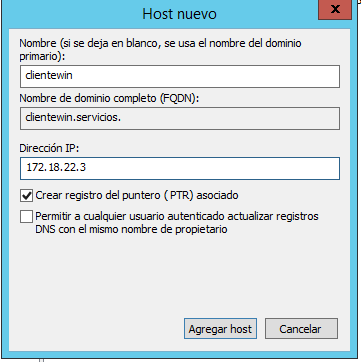
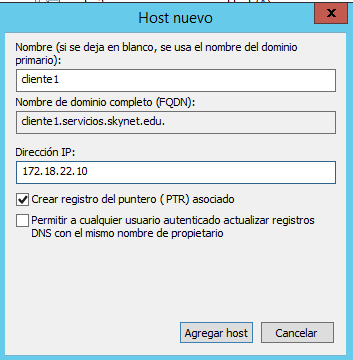
configuración de la subzona

Changed region(s): [[0.0, 0.0, 1.0, 1.0]]

diff --git a/trim1/u3/README.md b/trim1/u3/README.md
@@ -1,10 +1,28 @@
 # DNS en Windows Server 2012
 
+- [Instalación y Configuración DNS](#1)
+
+- [Creación de Zona Búsqueda Directa](#2)
+
+- [Creación de Zona Búsqueda Inversa](#3)
+
+- [Configuración de Reenviadores](#4)
+
+- [Comprobar el funcionamiento del DNS caché](#5)
+
+- [Configuración DNS Maestro](#6)
+
+- [Crear una Subzona demoninada servicios](#7)
+
+- [Comprobar desde consola del cliente que resuelvan](#8)
+
+- [Realizar operaciones con type en nslookup](#9)
 
 
-![img](img/000.png)
 
-## Realizar la instalación y configuración de un servidor DNS en una máquina con Windows Server 2012. Se piden las siguientes acciones de configuración y prueba del funcionamiento del servicio:
+![img](img/000.jpg)
+
+## Realizar la instalación y configuración de un servidor DNS en una máquina con Windows Server 2012. Se piden las siguientes acciones de configuración y prueba del funcionamiento del servicio:<a name="1"></a>
 
 Tenemos que abrir la ventana de `Administrador del servidor -> Administrar -> Agregar Roles`.
 
@@ -37,7 +55,7 @@ Comprobamos que tenemos el servicio instalado en el siguiente ruta `Administrado
 
 
 
-## Creación de una nueva Zona Búsqueda Directa
+## Creación de una nueva Zona Búsqueda Directa <a name="2"></a>
 
 Tenemos que entrar en `Administador del servidor -> Herramientas -> DNS`
 
@@ -60,7 +78,7 @@ Tenemos que entrar en `Administador del servidor -> Herramientas -> DNS`
 
 - Por lo tanto ya tenemos configurado una nueva zona Directa.
 
-## Crear una zona de búsqueda inversa para tu subred.
+## Crear una zona de búsqueda inversa para tu subred.<a name="3"></a>
 
 En la carpeta de `Zonas de Búsqueda inversa` con el botón secundario del ratón creamos una nueva zona inversa.
 
@@ -79,7 +97,7 @@ En la carpeta de `Zonas de Búsqueda inversa` con el botón secundario del rató
 - Ya tenemos configurado la nueva `Zona de Búsqueda inversa`.
 
 
-## Configurar reenviadores de DNS con fry o puerta de enlace actual y DNS público (p.e.: 195.235.113.3 / 80.58.61.250 / 8.8.8.8).
+## Configurar reenviadores de DNS con fry o puerta de enlace actual y DNS público (p.e.: 195.235.113.3 / 80.58.61.250 / 8.8.8.8).<a name="4"></a>
 
 Seleccionamos nuestro servidor `serverob2 -> Propiedades -> reenviadores`
 
@@ -99,7 +117,7 @@ Seleccionamos nuestro servidor `serverob2 -> Propiedades -> reenviadores`
 
 ![img](img/008.png)
 
-### Configurar cliente para que su servidor DNS sea el servidor W2012. Comprobar el funcionamiento como caché DNS de ambas máquinas al acceder a sitios de Internet.
+### Configurar cliente para que su servidor DNS sea el servidor W2012. Comprobar el funcionamiento como caché DNS de ambas máquinas al acceder a sitios de Internet.<a name="5"></a>
 
 Configuramos la tarjeta de red con la IP del DNS del Servidor Windows Server 2012.
 
@@ -110,7 +128,7 @@ Configuramos la tarjeta de red con la IP del DNS del Servidor Windows Server 201
 
 ![img](img/028.png)
 
-## Configuraremos el servidor como DNS Maestro, además de Caché.
+## Configuraremos el servidor como DNS Maestro, además de Caché.<a name="6"></a>
 
 La configuración de un Servidor DNS Maestro solo con tener registros en el propio servidor de DNS, como por ejemplo, `cname, mx, a`. Ya hemos creado una zona directa y vamos a crear un alias para el servidor, para impresora y un email.
 
@@ -170,7 +188,7 @@ Registros de los hosts con la IP
 ![img](img/049.png)
 
 
-## Crear una subzona denominada servicios (dominio nuevo)
+## Crear una subzona denominada servicios (dominio nuevo)<a name="7"></a>
 
 Vamos a crear una nueva zona en la zona directa. Solo debemos seguir los mismos pasos.
 
@@ -180,6 +198,16 @@ Vamos a crear una nueva zona en la zona directa. Solo debemos seguir los mismos 
 ![img](img/050.png)
 ![img](img/051.png)
 ![img](img/052.png)
+
+### Creamos la Subzona de servicios
+
+Con el botón secundario del ratón en la nuevazona y le damos `dominio nuevo`.
+
+![img](img/062.png)
+
+- Escribimos el nombre de `servicios`
+
+![img](img/063.png)
 
 
 ### Agregar a ésta un servidor ftp (asociado a la misma IP del servidor)
@@ -221,36 +249,29 @@ Vamos a crear una nueva zona en la zona directa. Solo debemos seguir los mismos 
 ![img](img/057.png)
 
 
-### Comprobar desde la consola del cliente que se resuelven correctamente los nombres dados de alta en el servidor (aunque en algunos casos, si se trata de direcciones ficticias, no se obtenga respuesta).
+### Comprobar desde la consola del cliente que se resuelven correctamente los nombres dados de alta en el servidor (aunque en algunos casos, si se trata de direcciones ficticias, no se obtenga respuesta).<a name="8"></a>
 
 ```console
 
-C:\Windows\system32>nslookup ftp.servicios
+C:\Windows\system32>nslookup printer2.servicios.skynet.edu
 Servidor:  serverob2.skynet.edu
 Address:  172.18.22.1
 
-Nombre:  ftp.servicios
-Address:  172.18.22.1
-
-
-C:\Windows\system32>nslookup administrador.servicios
-Servidor:  ftp.servicios
-Address:  172.18.22.1
-
-Nombre:  administrador.servicios
-Address:  172.18.22.7
-
-
-C:\Windows\system32>nslookup impresora.servicios
-Servidor:  serverob2.skynet.edu
-Address:  172.18.22.1
-
-Nombre:  impresora.servicios
+Nombre:  printer2.servicios.skynet.edu
 Address:  172.18.22.6
 
 
+C:\Windows\system32>nslookup server
+Servidor:  serverob2.skynet.edu
+Address:  172.18.22.1
+
+Nombre:  serverob2.skynet.edu
+Address:  172.18.22.1
+Aliases:  server.skynet.edu
+
+
 C:\Windows\system32>nslookup -type=mx mail
-Servidor:  ftp.servicios
+Servidor:  serverob2.skynet.edu
 Address:  172.18.22.1
 
 mail.skynet.edu MX preference = 10, mail exchanger = mailserver.skynet.edu
@@ -262,8 +283,94 @@ Address:  172.18.22.1
 
 server.skynet.edu       canonical name = serverob2.skynet.edu
 
+C:\Windows\system32>nslookup -type=a printer2.servicios.skynet.edu
+Servidor:  serverob2.skynet.edu
+Address:  172.18.22.1
+
+Nombre:  printer2.servicios.skynet.edu
+Address:  172.18.22.6
+
+
+C:\Windows\system32>nslookup administrador.servicios.skynet.edu
+Servidor:  serverob2.skynet.edu
+Address:  172.18.22.1
+
+Nombre:  administrador.servicios.skynet.edu
+Address:  172.18.22.7
+
+
+C:\Windows\system32>nslookup cliente1.servicios.skynet.edu
+Servidor:  serverob2.skynet.edu
+Address:  172.18.22.1
+
+Nombre:  cliente1.servicios.skynet.edu
+Address:  172.18.22.10
+
+
+C:\Windows\system32>nslookup ftp.servicios.skynet.edu
+Servidor:  serverob2.skynet.edu
+Address:  172.18.22.1
+
+Nombre:  ftp.servicios.skynet.edu
+Address:  172.18.22.1
+
+
+C:\Windows\system32>nslookup mailserver
+Servidor:  serverob2.skynet.edu
+Address:  172.18.22.1
+
+Nombre:  mailserver.skynet.edu
+Address:  172.18.22.5
+
+
+C:\Windows\system32>nslookup printer
+Servidor:  serverob2.skynet.edu
+Address:  172.18.22.1
+
+Nombre:  printer.skynet.edu
+Address:  172.18.22.4
+
+
 C:\Windows\system32>
+
 
 ```
 
-### Realizar, también desde el cliente, algunas operaciones con nslookup tanto dentro como fuera de nuestra intranet.
+### Realizar desde el cliente, algunas operaciones con nslookup fuera de nuestra intranet.<a name="9"></a>
+
+
+```console
+
+C:\Windows\system32>nslookup www.google.es
+Servidor:  serverob2.skynet.edu
+Address:  172.18.22.1
+
+Respuesta no autoritativa:
+Nombre:  www.google.es
+Addresses:  2a00:1450:4003:806::2003
+          216.58.211.195
+
+
+C:\Windows\system32>nslookup www.facebook.es
+Servidor:  serverob2.skynet.edu
+Address:  172.18.22.1
+
+Respuesta no autoritativa:
+Nombre:  star-mini.c10r.facebook.com
+Addresses:  2a03:2880:f104:83:face:b00c:0:25de
+          31.13.83.36
+Aliases:  www.facebook.es
+          www.facebook.com
+
+
+C:\Windows\system32>nslookup www.elotrolado.net
+Servidor:  serverob2.skynet.edu
+Address:  172.18.22.1
+
+Respuesta no autoritativa:
+Nombre:  elotrolado.net
+Address:  195.78.228.226
+Aliases:  www.elotrolado.net
+
+
+```
